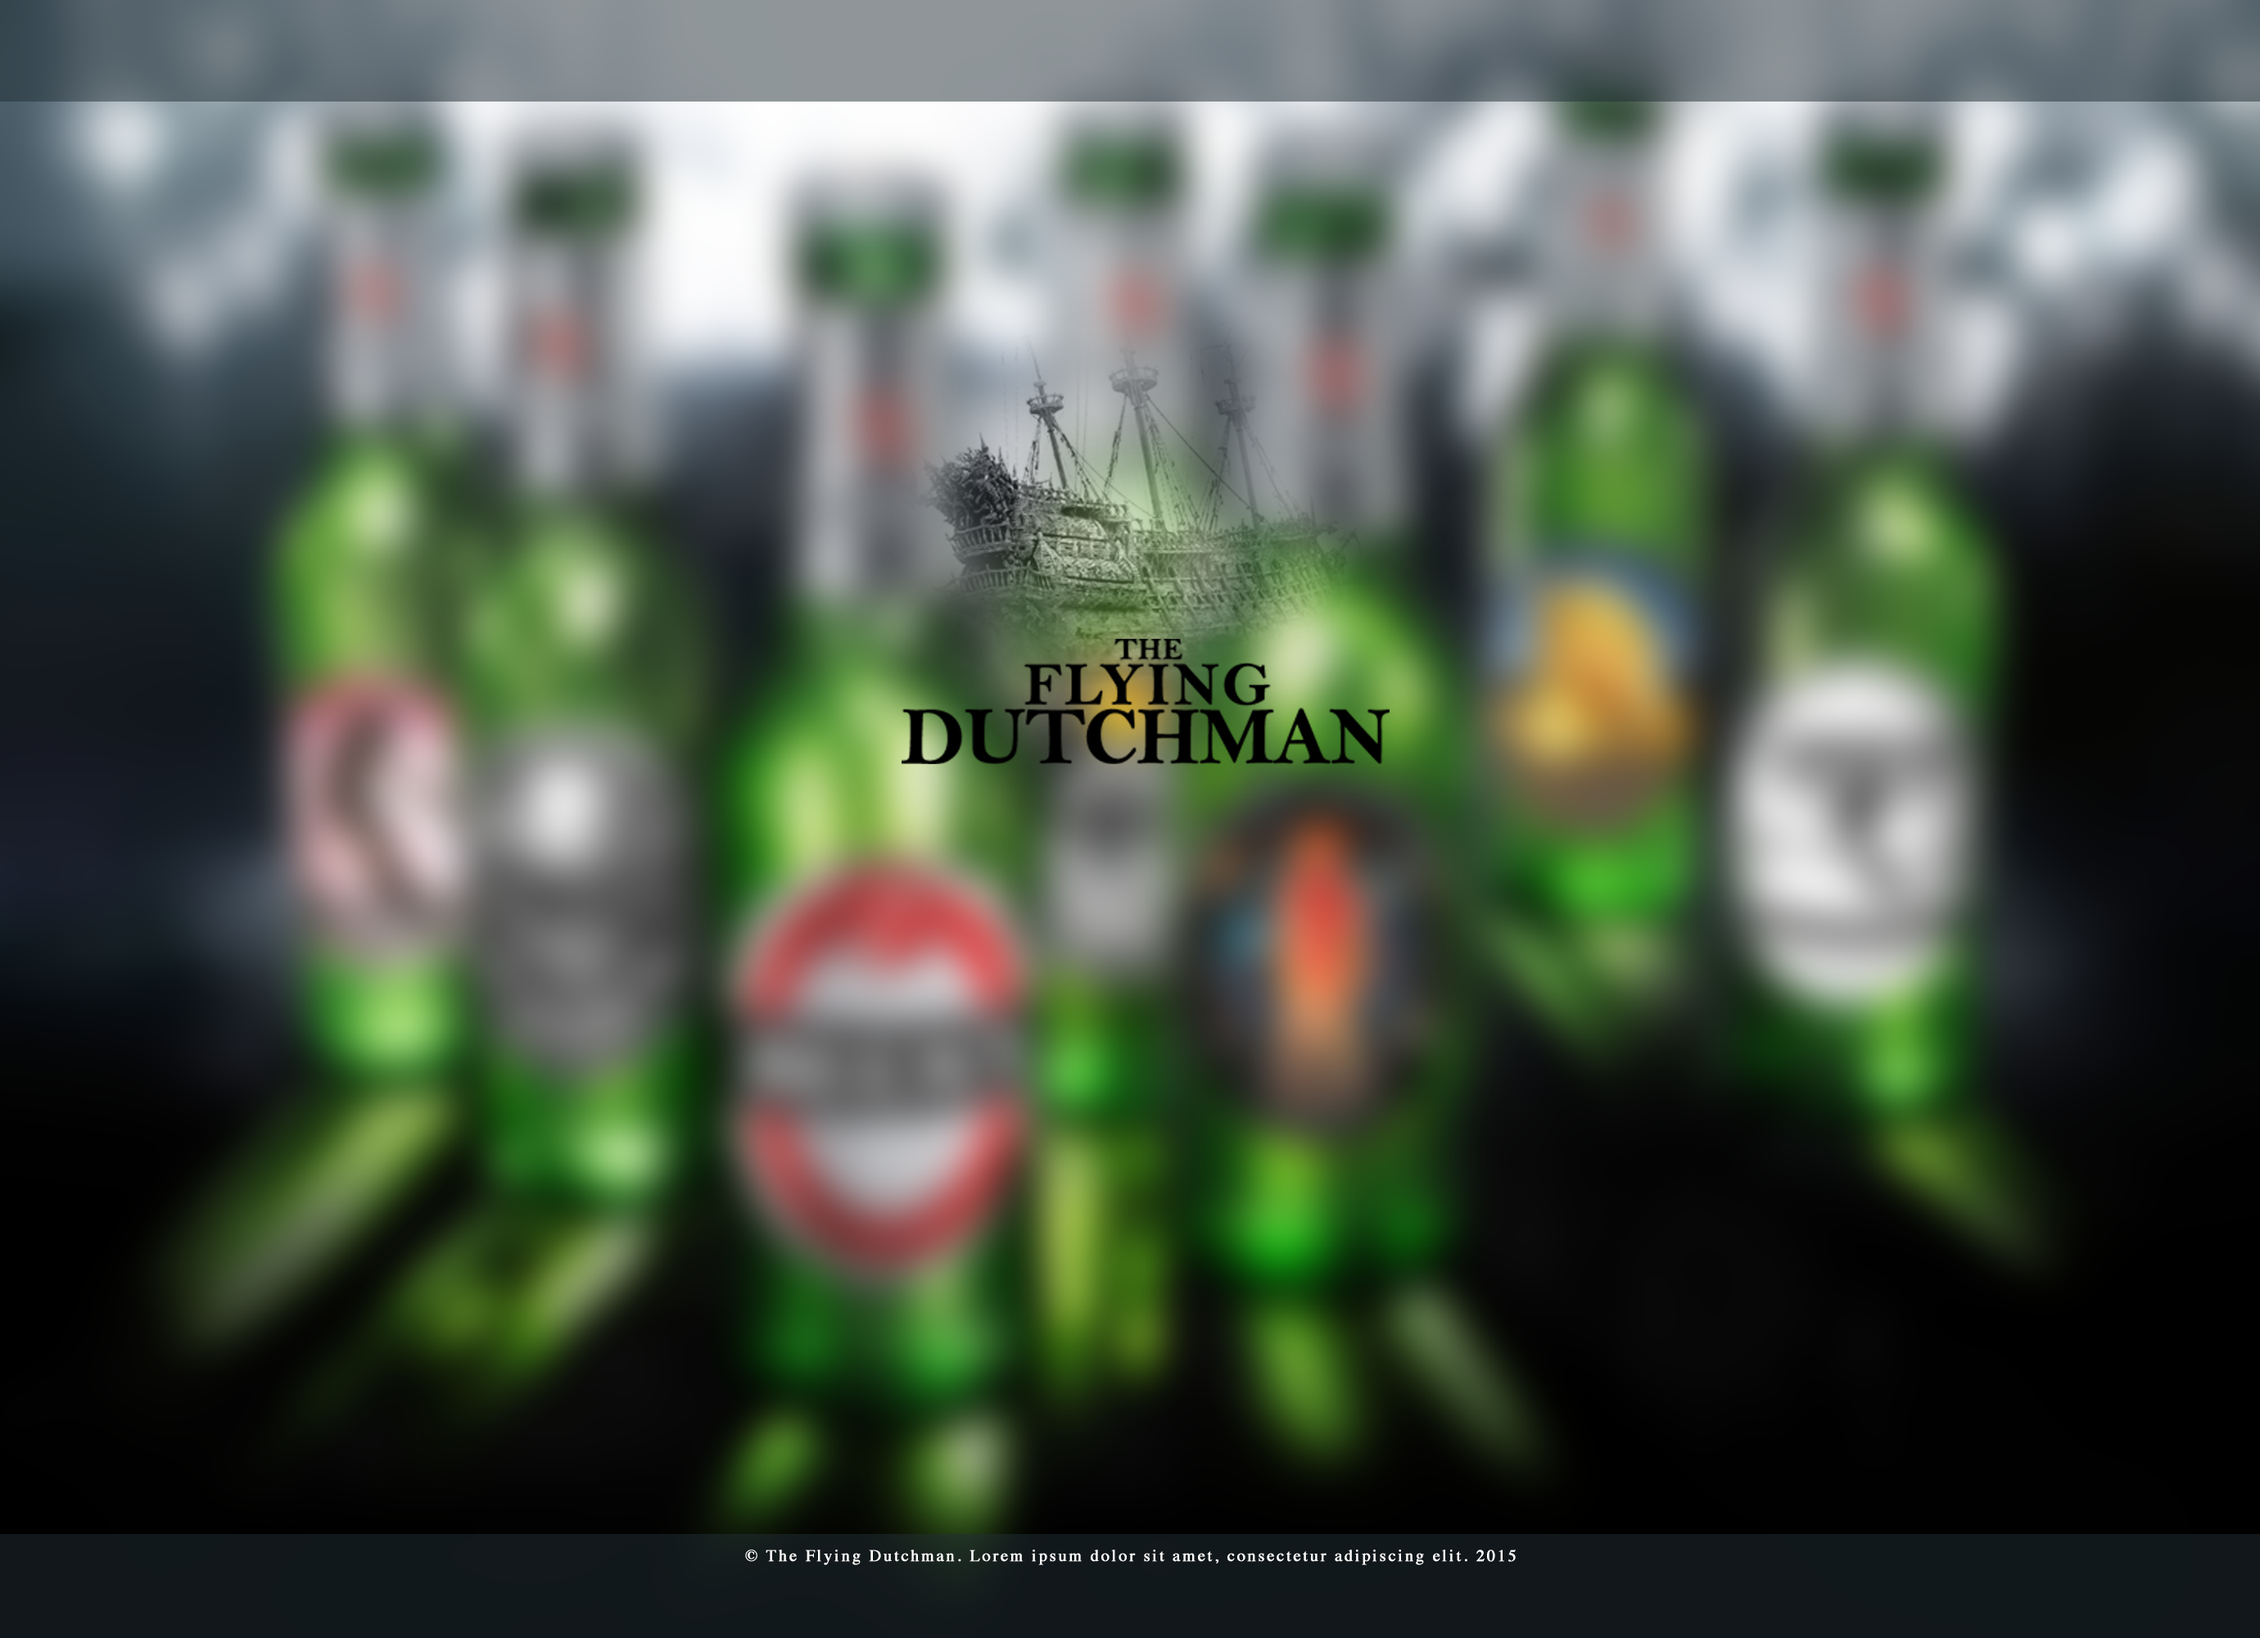
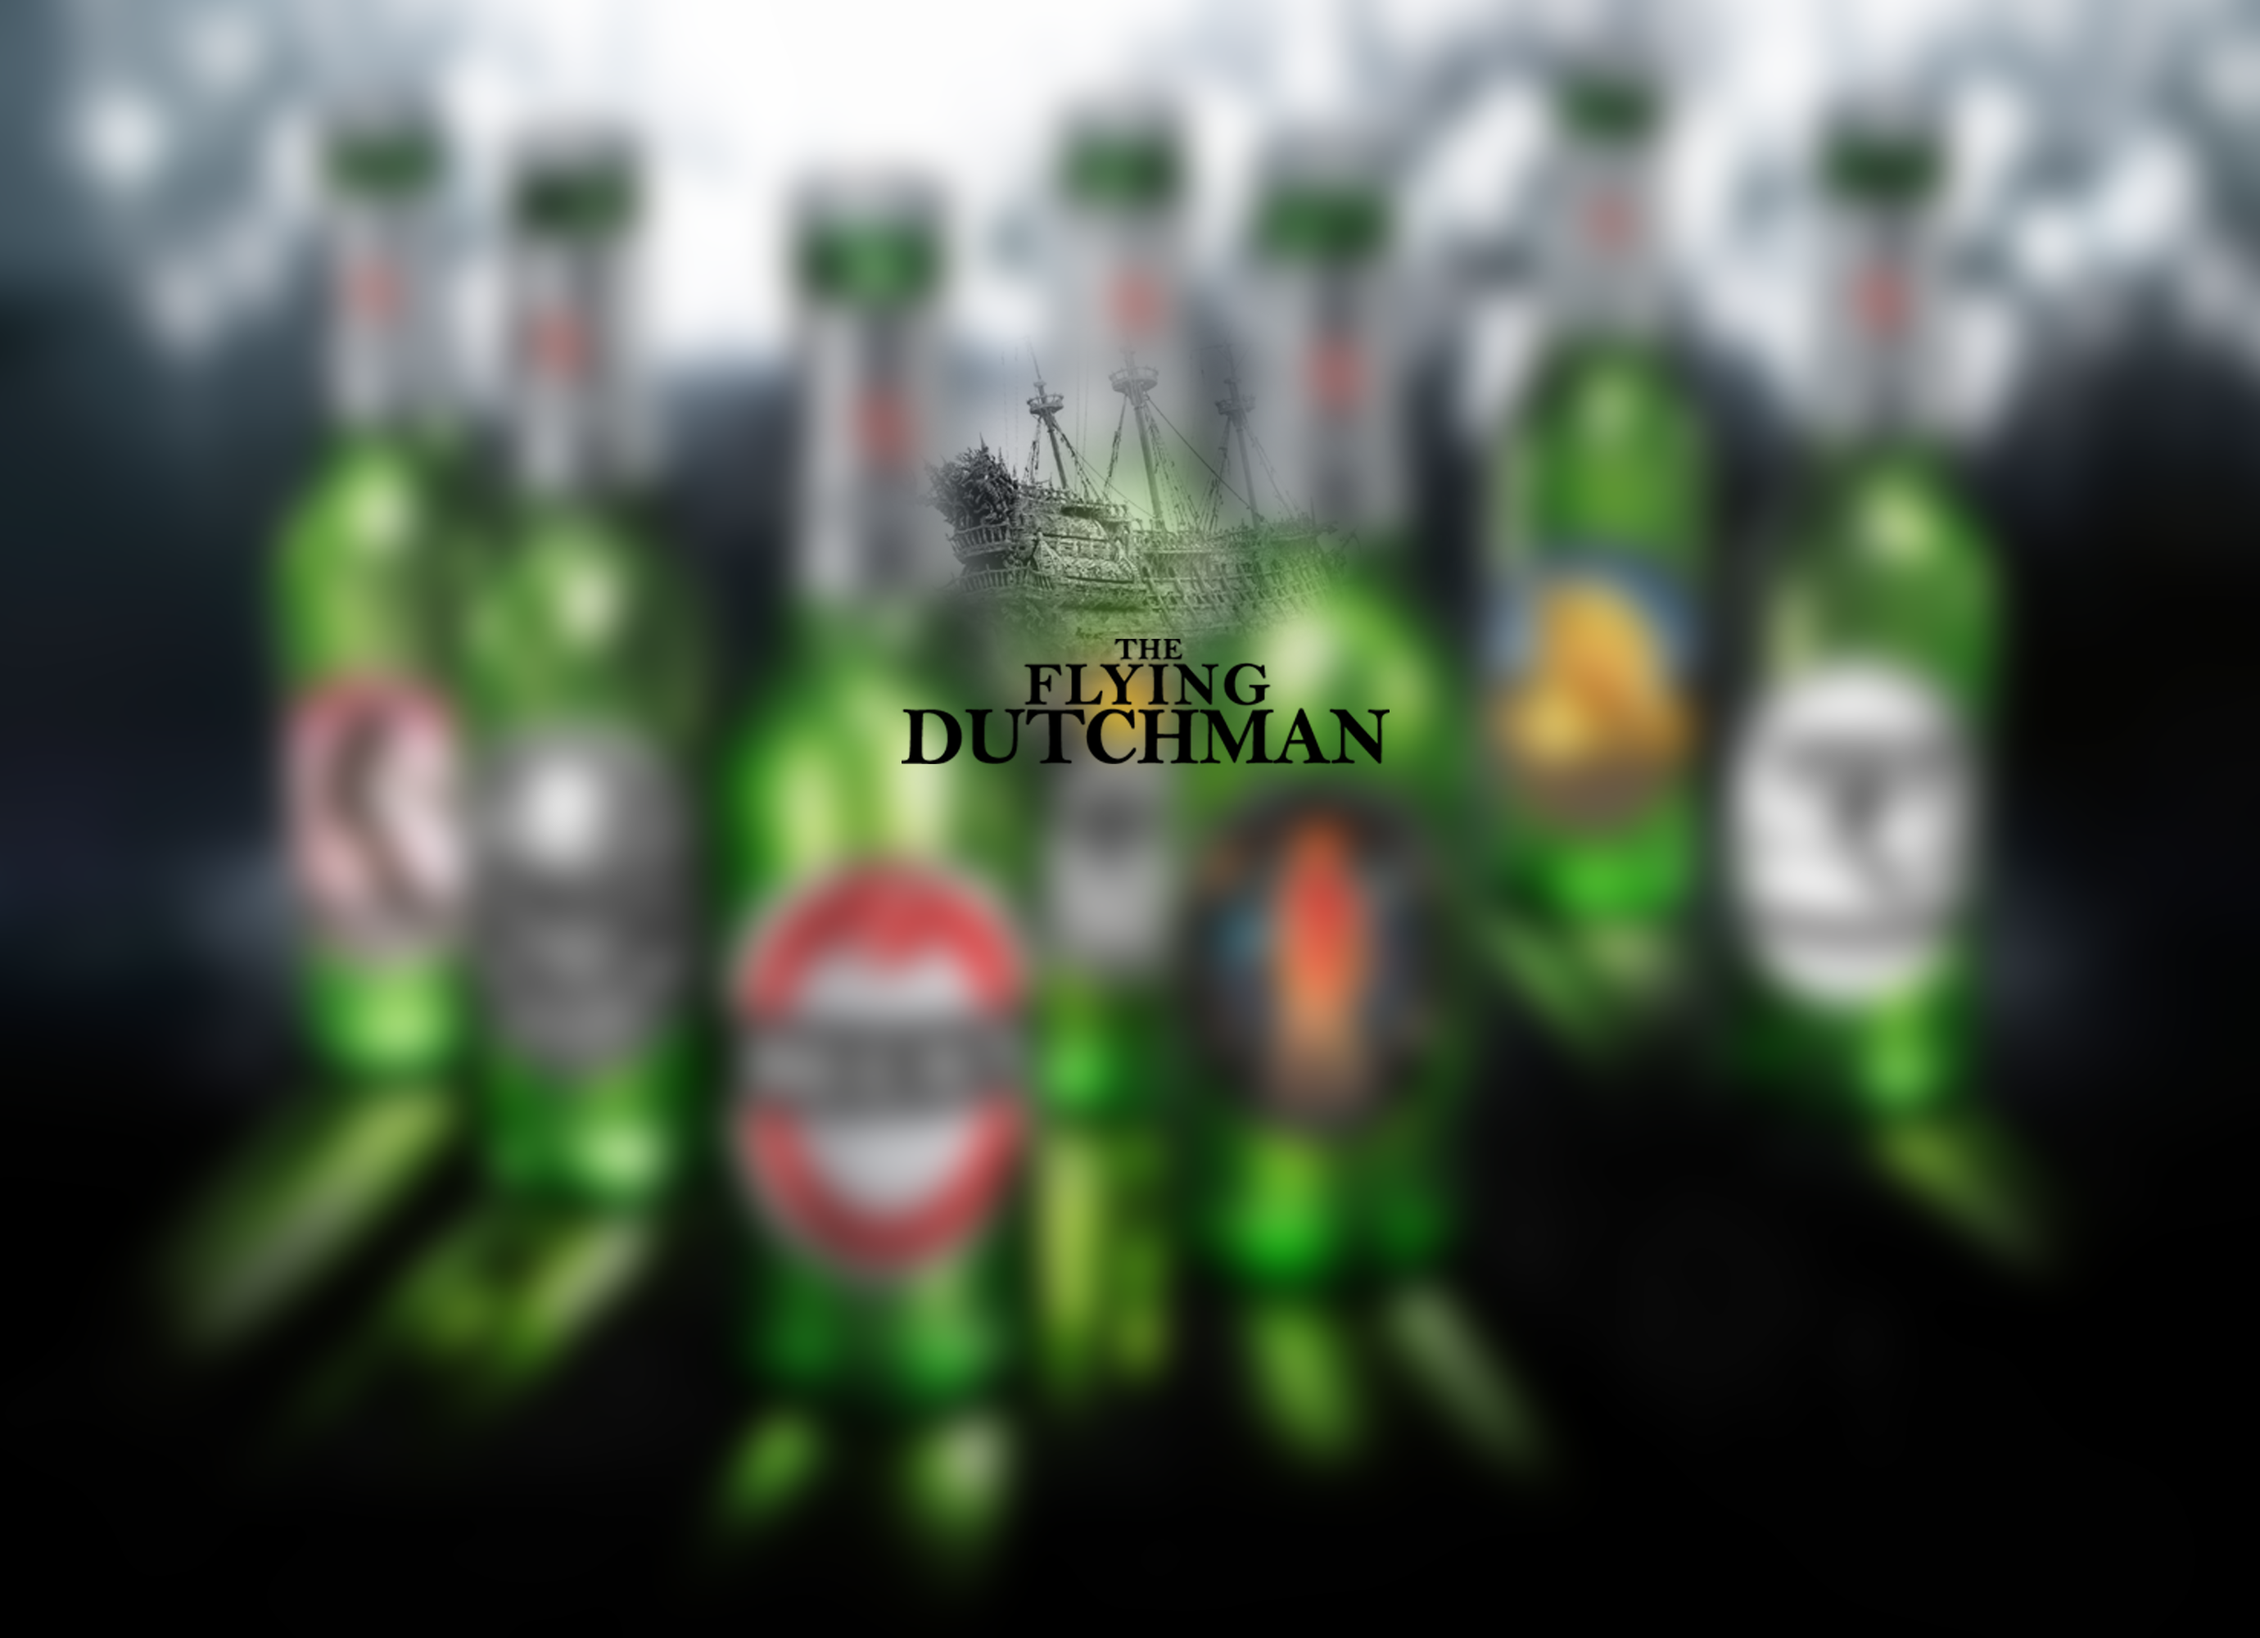
changes in index

Changed region(s): [[0.0, 0.93, 1.0, 1.0], [0.0, 0.0, 1.0, 0.062]]

diff --git a/main.html b/main.html
@@ -3,41 +3,32 @@
 	<head>
 		<title>The Flying Dutchman</title>
 		<link rel="stylesheet" href="css/tfd_main.css">
+		<link rel="shortcut icon" href="images/start/logo.png" />
 	</head>
 
 	<body>
 		<div id="wrapper"> 
 			<img id="start_background_image" src="images/main/start_background_800_white.jpg" alt="" />
 			<div id="header"> Perhaps a menu here in the header somewhere? Language flags etc... </div>
-
-			<div id="logosearch"> 
-
+			<div id="logosearch">
 				<div id="ls_left"> <img id="tfd_logo" src="images/main/tfd_logo.png" alt=""/> </div>
-				<div id="ls_main"> 
-					
+				<div id="ls_main">
 					<img id="magnify" src="images/main/magnify.png" alt=""/> 
 					<input id="search" type="text" placeholder="SEARCH FOR BEER">
-					
 				</div>
 				<div id="ls_right"> </div>
-
 			</div>
 
-			<div id="content"> 
-
-				<div id="left">  </div>
-				<div id="main"> 
-					
-				</div>
+			<div id="content">
+				<div id="left"> </div>
+				<div id="main"></div>
 				<div id="order_area"> 
 					<div id="order"> <h4>ORDER LIST</h4> </div>
 					<div id="orderbutton"> PLACE ORDER </div>
 				</div>
-
 			</div>
 
 			<div id="space"> </div>
-
 			<div id="footer"> 
 				&copy; The Flying Dutchman. Lorem ipsum dolor sit amet, consectetur adipiscing elit. 2015 
 				<img id="logo_noship" src="images/main/tfd_logo_noship.png" alt=""/>

diff --git a/css/tfd_start.css b/css/tfd_start.css
@@ -1,13 +1,13 @@
 html
 {
-    height: 100%;
+    height: 97%;
     background: rgb(11, 15, 17);
     font-family: Palatino, serif;
 }
 
 body
 {
-    height: 97%;
+    height: 100%;
     text-align: center;
 }
 .div
@@ -35,15 +35,15 @@ body
 {
     background: rgba(17, 24, 27, 0.5);
     height: 5%;
-    margin: 0 95px 0 95px;
+    margin:0 auto;
 }
 
 #main
 {
     height: 100%;
-    margin: 0 190px 0 190px;
     text-align: center;
-    background-image: url("../images/start/start.png");
+    margin:0 auto;
+    background-image: url("../images/start/body-img.jpg");
     background-position: center;
     background-attachment: fixed;
     background-repeat: no-repeat;
@@ -52,9 +52,14 @@ body
 
 #buttom
 {
+    position: absolute;
+    clear: both;
     background: rgba(17, 24, 27, 0.5);
-    height: 6%;
-    margin: 55% 95px 0 95px;
+    height:46px;
+    width: 100%;
+    top: 93%;
+    color: grey;
+    font-size: 10px;
 }
 
 #username
@@ -105,4 +110,15 @@ body
     cursor: pointer;
     border-radius: 15px;
     border: 0px;
+}
+
+#logo
+{
+    height: 300px;
+    width: 300px;
+    background-image: url("../images/start/logo.png");
+    background-position: center;
+    background-repeat: no-repeat;
+    background-size: contain;
+    margin:0 auto;
 }

diff --git a/index.html b/index.html
@@ -8,7 +8,9 @@
 </head>
 <body>
 <div id="main">
-    <br><br><br><br><br><br><br><br><br><br><br><br><br><br><br><br><br><br><br>
+    <div id="top"> </div>
+    <br><br><br><br><br><br>
+    <div id="logo"></div>
     <div id="logoin">
             <form action="" method="post" id="log_frm">
                 <table id='login_table'>
@@ -20,6 +22,7 @@
             </form>
     </div>
     <b id="guest text" style="color: white">press <a href="">here</a> to continue as guest</b>
+    <div id="buttom">&copy; The Flying Dutchman. Lorem ipsum dolor sit amet, consectetur adipiscing elit. 2015</div>
 </div>
 </body>
 <script type="text/javascript">
